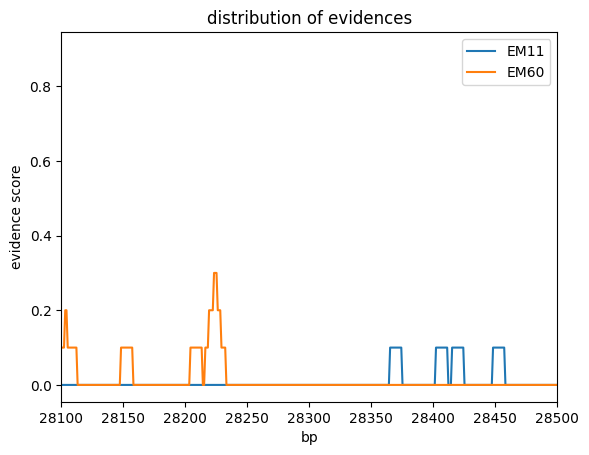
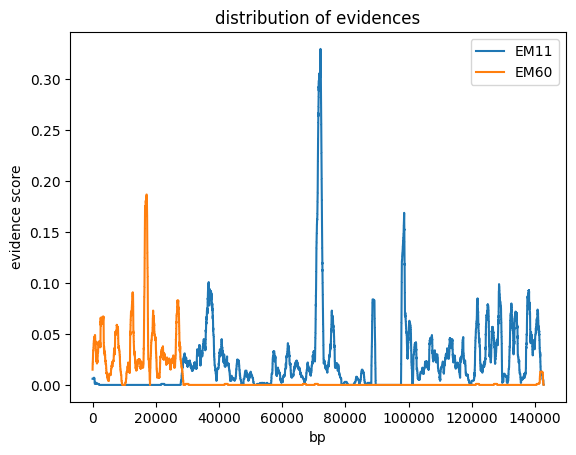
plot fix

Changed region(s): [[0.0, 0.0615, 1.0, 0.9846], [0.3438, 0.0308, 0.75, 0.0615], [0.0, 0.5538, 0.0312, 0.5846]]

diff --git a/MSAstats/process_clone_msa.py b/MSAstats/process_clone_msa.py
@@ -45,7 +45,7 @@ for population in populations:
         first_e_distribution, second_e_distribution = get_evidences_distributions(msa_matrix)
         distribution_evidence_sites=first_e_distribution+second_e_distribution
 
-        k=10
+        k=1000
         first_convoluted=np.convolve(first_e_distribution, np.ones(k), mode='same')
         second_convoluted=np.convolve(second_e_distribution, np.ones(k), mode='same')
         normaliser_convoluted=np.convolve(distribution_evidence_sites, np.ones(k), mode='same')
@@ -59,7 +59,6 @@ for population in populations:
         plt.plot(x, second_normalised, label=references[1])
         plt.xlabel('bp')
         plt.ylabel('evidence score')
-        plt.xlim([28100,28500])
         plt.legend()
         plt.savefig(out_folder, bbox_inches='tight')
         plt.close()
@@ -74,7 +73,6 @@ for population in populations:
         plt.plot(x, second_non_normalised, label=references[1])
         plt.xlabel('bp')
         plt.ylabel('evidence score')
-        plt.xlim([28100,28500])
         plt.legend()
         plt.savefig(out_folder, bbox_inches='tight')
         plt.close()

diff --git a/notes/report.md b/notes/report.md
@@ -174,11 +174,11 @@ By creating the evidence plot of single reads we managed to find some recombinan
 
 Then we tried to create a plot that summarises the evidence information of multiple reads, I analysed and summarised the information of the first 1000 best matching reads and the plot we obtain (for population 2 at last timestep) is the following:
 
-![reads_evidences](/results\plots\recombination_evidences\reads\P2\P2_7_non_normalised.png)
+![reads_evidences](/results/plots/recombination_evidences/reads/P2/P2_7_non_normalised.png)
 
 Of course this graph is not normalised and the score depends on how many reads we have that show an evidence in each point. We can create the normalised version, but in the regions where we cannot have evidences, and in the regions where we have few reads, the plot is very noisy.
 
-![reads_evidences_normalised](/results\plots\recombination_evidences\reads\P2\P2_7.png)
+![reads_evidences_normalised](/results/plots/recombination_evidences/reads/P2/P2_7.png)
 
 As you can see we have information only on the central part of the DNA, seems that our way of selecting reads is biased. Maybe the longest matching reads are mainly the ones that map at the centre, for this reason we have difficulties in getting information on the sides.
 
